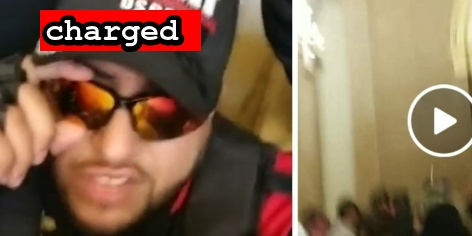
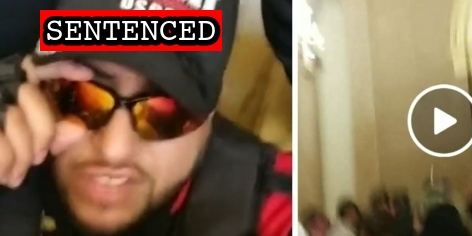
Latest

Changed region(s): [[0.089, 0.0297, 0.4746, 0.2373]]

diff --git a/docs/_suspects/hector-vargas-santos.md b/docs/_suspects/hector-vargas-santos.md
@@ -4,20 +4,20 @@ lastName: Vargas Santos
 hashtag: SmokingPhoenix
 aka:
 residence: New Jersey
-status: Charged
+status: Sentenced
 date: 2021-01-22
 charged: 2021-01-22
 indicted:
 convicted:
 acquitted:
-sentenced:
+sentenced: 2023-04-21
 dismissed:
 deceased:
 plea_hearing:
 trial_date: 2022-12-05
 trial_type: Jury Trial
 jury_selection:
-sentencing:
+sentencing: 2023-04-21
 status_conference:
 age: 28
 occupation: U.S. Marines (Former)
@@ -41,8 +41,28 @@ caseName: USA v. VARGAS-SANTOS
 judge: Randolph D. Moss
 videos:
 charges:
+  - code: 18 USC § 1752(a)(1)
+    title: Entering a restricted building or grounds
+    url: https://www.law.cornell.edu/uscode/text/18/1752
+    felony: false
+  - code: 18 USC § 1752(a)(2)
+    title: Disorderly and disruptive conduct in a restricted building or grounds
+    url: https://www.law.cornell.edu/uscode/text/18/1752
+    felony: false
+  - code: 40 USC § 5104(e)(2)(D)
+    title: Disorderly Conduct in a Capitol Building
+    url: https://www.law.cornell.edu/uscode/text/40/5104
+    felony: false
+  - code: 40 USC § 5104(e)(2)(G)
+    title: Parading, demonstrating or picketing in a Capitol building
+    url: https://www.law.cornell.edu/uscode/text/40/5104
+    felony: false
 sentence:
+  - 4 months incarceration
+  - $2500 fine
+  - $500 restitution
 ---
+
 - [News Report](https://www.msn.com/en-us/news/politics/fbi-new-jersey-man-took-video-selfie-inside-capitol-detailed-his-location-during-siege/ar-BB1d746o)
 - [Incriminating Evidence](https://jcitytimes.com/hector-vargas-from-unsung-hero-to-insurrectionist/)
 - [Statement of Facts](https://www.justice.gov/usao-dc/case-multi-defendant/file/1371546/download)

diff --git a/docs/_suspects/fi-duong.md b/docs/_suspects/fi-duong.md
@@ -4,20 +4,20 @@ lastName: Duong
 hashtag: FiDuong
 aka:
 residence: Virginia
-status: Indicted
+status: Convicted
 date: 2021-06-30
 charged: 2021-06-30
 indicted: 2021-08-25
-convicted:
+convicted: 2023-04-21
 acquitted:
 sentenced:
 dismissed:
 deceased:
-plea_hearing:
+plea_hearing: 2023-04-21
 trial_date:
 trial_type:
 jury_selection:
-sentencing:
+sentencing: 2023-07-21
 status_conference:
 age: 27
 occupation:
@@ -32,7 +32,7 @@ raid:
 perpwalk:
 quote: "I would not think to put in a little bit of Styrofoam, a little bit of motor oil, and some gasoline in said wine bottles. I wouldn’t have the first thought of doing that whatsoever."
 title: Fi Duong charged on June 30, 2021
-description: Click for latest case details. Suspects innocent until proven guilty.
+description: Convicted on April 21, 2023. Click for latest case details.
 author: seditiontrack
 layout: suspect
 published: true
@@ -41,8 +41,13 @@ caseName: USA v. DUONG
 judge: Paul L. Friedman
 videos:
 charges:
+  - code: 18 USC § 231(a)(3)
+    title: Obstruction of Law Enforcement During Civil Disorder
+    url: https://www.law.cornell.edu/uscode/text/18/231
+    felony: true
 sentence:
 ---
+
 - [News Report](https://www.washingtonpost.com/local/legal-issues/capitol-riot-bible-study-group-militia/2021/07/06/e5e6cd26-de82-11eb-ae31-6b7c5c34f0d6_story.html)
 - [Statement of Facts](https://www.justice.gov/usao-dc/case-multi-defendant/file/1409611/download)
 - [Indictment](https://storage.courtlistener.com/recap/gov.uscourts.dcd.234965/gov.uscourts.dcd.234965.11.0.pdf)

diff --git a/docs/_suspects/jonathan-munafo.md b/docs/_suspects/jonathan-munafo.md
@@ -17,7 +17,7 @@ plea_hearing: 2023-04-21
 trial_date:
 trial_type:
 jury_selection:
-sentencing:
+sentencing: 2023-08-29
 status_conference:
 age: 34
 occupation:
@@ -41,10 +41,21 @@ caseName: USA v. MUNAFO
 judge: James E. Boasberg
 videos:
 charges:
+  - code: 18 USC § 231(a)(3)
+    title: Obstruction of Law Enforcement During Civil Disorder
+    url: https://www.law.cornell.edu/uscode/text/18/231
+    felony: true
+  - code: 18 USC § 111(a)(1)
+    title: Assaulting, resisting, or impeding certain officers or employees
+    url: https://www.law.cornell.edu/uscode/text/18/111
+    felony: true
 sentence:
 ---
+
 - [News Report](https://www.orlandosentinel.com/news/breaking-news/os-ne-jonathan-munafo-us-capitol-riot-20210427-cmz7ovdhejeefm2unzdns4aqzy-story.html)
 - [Complaint](https://www.justice.gov/usao-dc/case-multi-defendant/file/1389811/download)
 - [Statement of Facts](https://www.justice.gov/usao-dc/case-multi-defendant/file/1389816/download)
 - [DOJ Press Release](https://www.justice.gov/usao-dc/pr/new-york-man-arrested-assaulting-law-enforcement-during-jan-6-capitol-breach)
 - [Indictment](https://www.justice.gov/usao-dc/case-multi-defendant/file/1415441/download)
+- [Plea Agreement](https://storage.courtlistener.com/recap/gov.uscourts.dcd.230633/gov.uscourts.dcd.230633.37.0.pdf)
+- [Statement of Offense](https://storage.courtlistener.com/recap/gov.uscourts.dcd.230634/gov.uscourts.dcd.230634.39.0.pdf)

diff --git a/docs/_suspects/traci-isaacs.md b/docs/_suspects/traci-isaacs.md
@@ -4,11 +4,11 @@ lastName: Isaacs
 hashtag:
 aka:
 residence: Florida
-status: Indicted
+status: Convicted
 date: 2022-06-06
 charged: 2022-06-06
 indicted: 2022-10-12
-convicted:
+convicted: 2023-04-21
 acquitted:
 sentenced:
 dismissed:
@@ -17,7 +17,7 @@ plea_hearing: 2023-04-21
 trial_date:
 trial_type:
 jury_selection:
-sentencing:
+sentencing: 2023-09-06
 status_conference:
 age: 52
 occupation:
@@ -32,7 +32,7 @@ raid:
 perpwalk:
 quote:
 title: Traci Isaacs charged on June 6th, 2022
-description: Click for latest case details. Suspects innocent until proven guilty.
+description: Convicted on April 21, 2023. Click for latest case details.
 author: seditiontrack
 layout: suspect
 published: true
@@ -41,8 +41,13 @@ caseName: USA v. ISAACS
 judge: Dabney L. Friedrich
 videos:
 charges:
+  - code: 18 USC § 1512(c)(1),2
+    title: Tampering with Documents or Proceedings (Aiding and Abetting)
+    url: https://www.law.cornell.edu/uscode/text/18/1512
+    felony: true
 sentence:
 ---
+
 - [News Report](https://www.fox35orlando.com/news/3-more-arrested-in-central-florida-connected-to-capitol-riot-officials-say)
 - [Complaint](https://www.justice.gov/usao-dc/case-multi-defendant/file/1513231/download)
 - [Statement of Facts](https://www.justice.gov/usao-dc/case-multi-defendant/file/1513236/download)

diff --git a/docs/_suspects/leo-bozell.md b/docs/_suspects/leo-bozell.md
@@ -14,7 +14,7 @@ sentenced:
 dismissed:
 deceased:
 plea_hearing:
-trial_date:
+trial_date: 2023-09-06
 trial_type:
 jury_selection:
 sentencing:
@@ -43,6 +43,7 @@ videos:
 charges:
 sentence:
 ---
+
 - [News Report](https://talkingpointsmemo.com/news/conservative-royalty-william-f-buckleys-great-nephew-charged-with-storming-capitol)
 - [Statement of Facts](https://www.justice.gov/usao-dc/case-multi-defendant/file/1371296/download)
 - [Indictment](https://www.justice.gov/usao-dc/case-multi-defendant/file/1377676/download)

diff --git a/docs/_suspects/robert-morss.md b/docs/_suspects/robert-morss.md
@@ -17,7 +17,7 @@ plea_hearing:
 trial_date: 2022-08-23
 trial_type: Stipulated Bench Trial
 jury_selection:
-sentencing: 2023-05-02
+sentencing: 2023-05-24
 status_conference:
 age:
 occupation: Substitute Teacher

diff --git a/docs/_suspects/victoria-white.md b/docs/_suspects/victoria-white.md
@@ -18,7 +18,7 @@ trial_date: 2023-05-08
 trial_type: Jury Trial
 jury_selection:
 sentencing:
-status_conference: 2023-07-19
+status_conference: 2023-04-25
 age: 39
 occupation:
 affiliations:

diff --git a/docs/_suspects/john-strand.md b/docs/_suspects/john-strand.md
@@ -17,7 +17,7 @@ plea_hearing:
 trial_date: 2022-09-19
 trial_type: Jury Trial
 jury_selection:
-sentencing: 2023-05-02
+sentencing: 2023-06-01
 status_conference:
 age: 37
 occupation: Model

diff --git a/docs/_suspects/andrew-taake.md b/docs/_suspects/andrew-taake.md
@@ -18,7 +18,7 @@ trial_date:
 trial_type:
 jury_selection:
 sentencing:
-status_conference: 2023-04-21
+status_conference: 2023-04-27
 age:
 occupation: Owner, Hi-Flow Houston
 affiliations:
